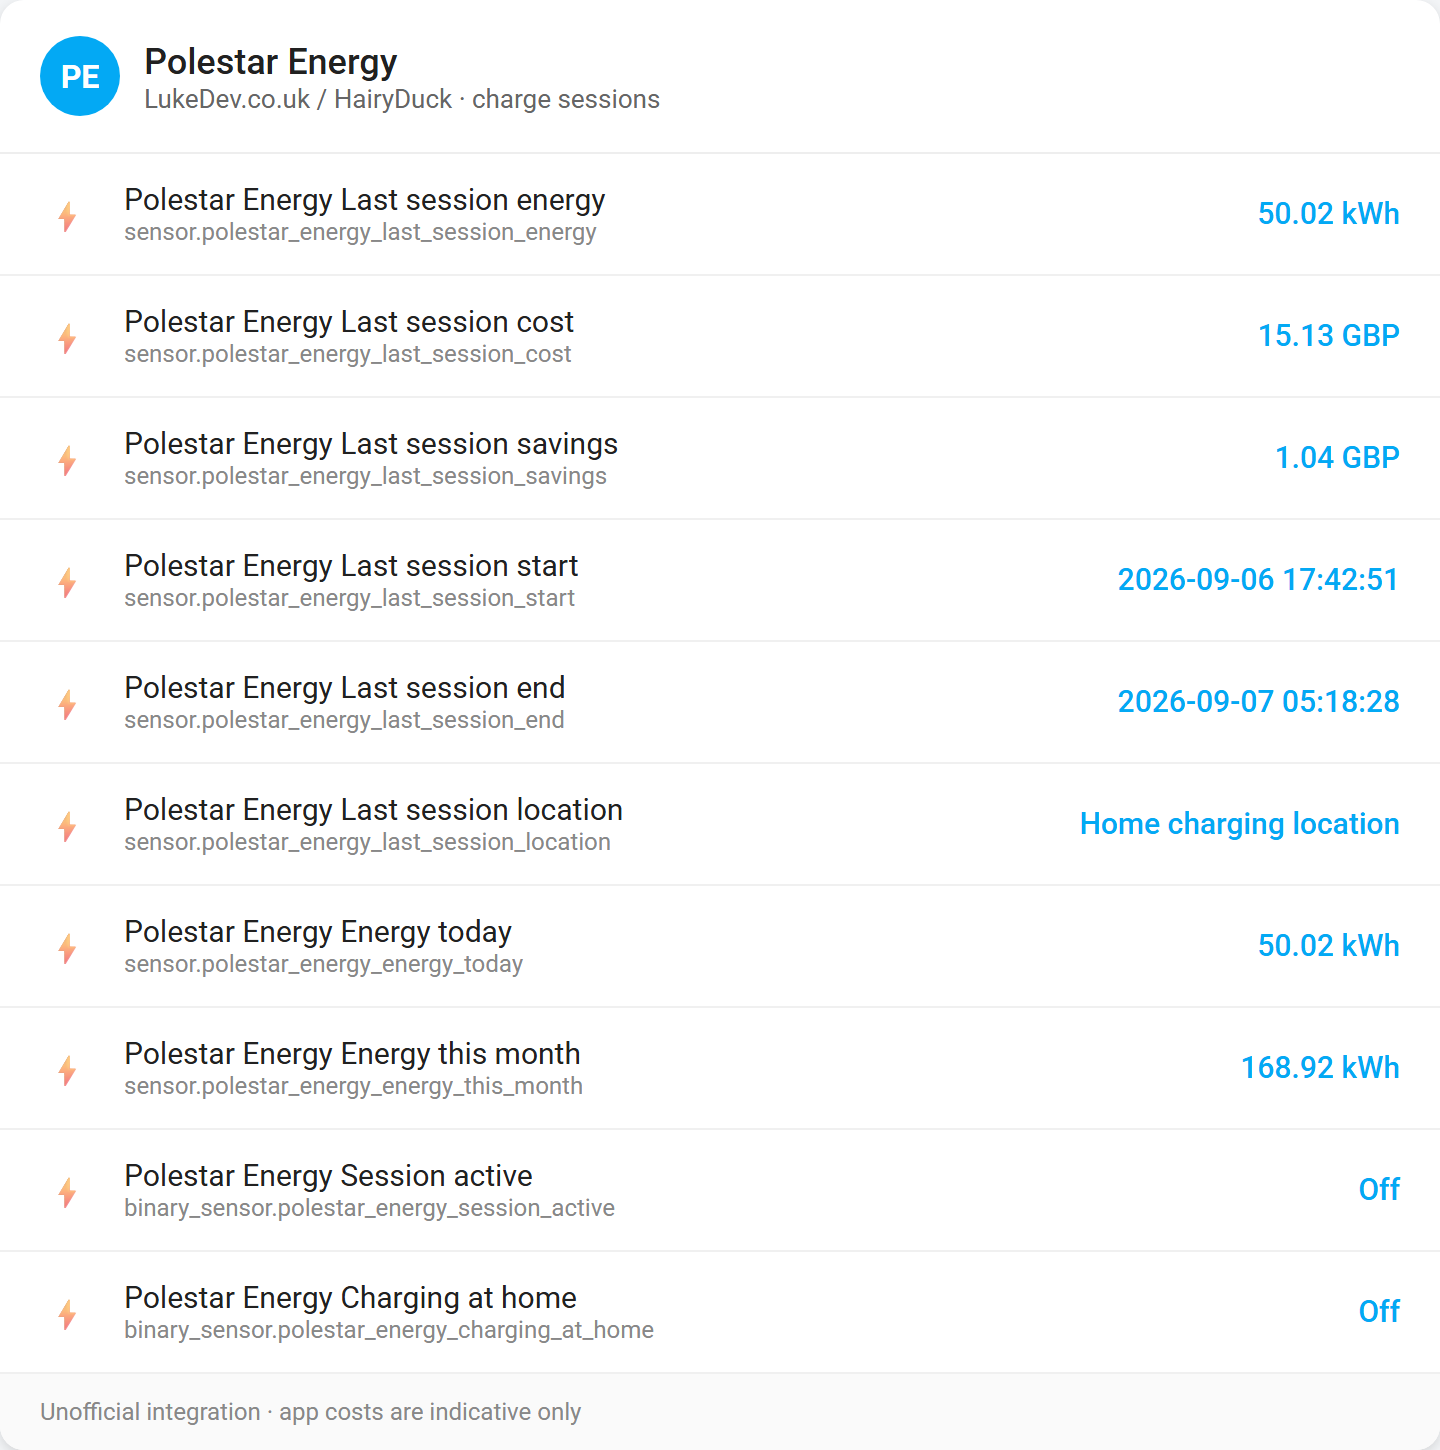
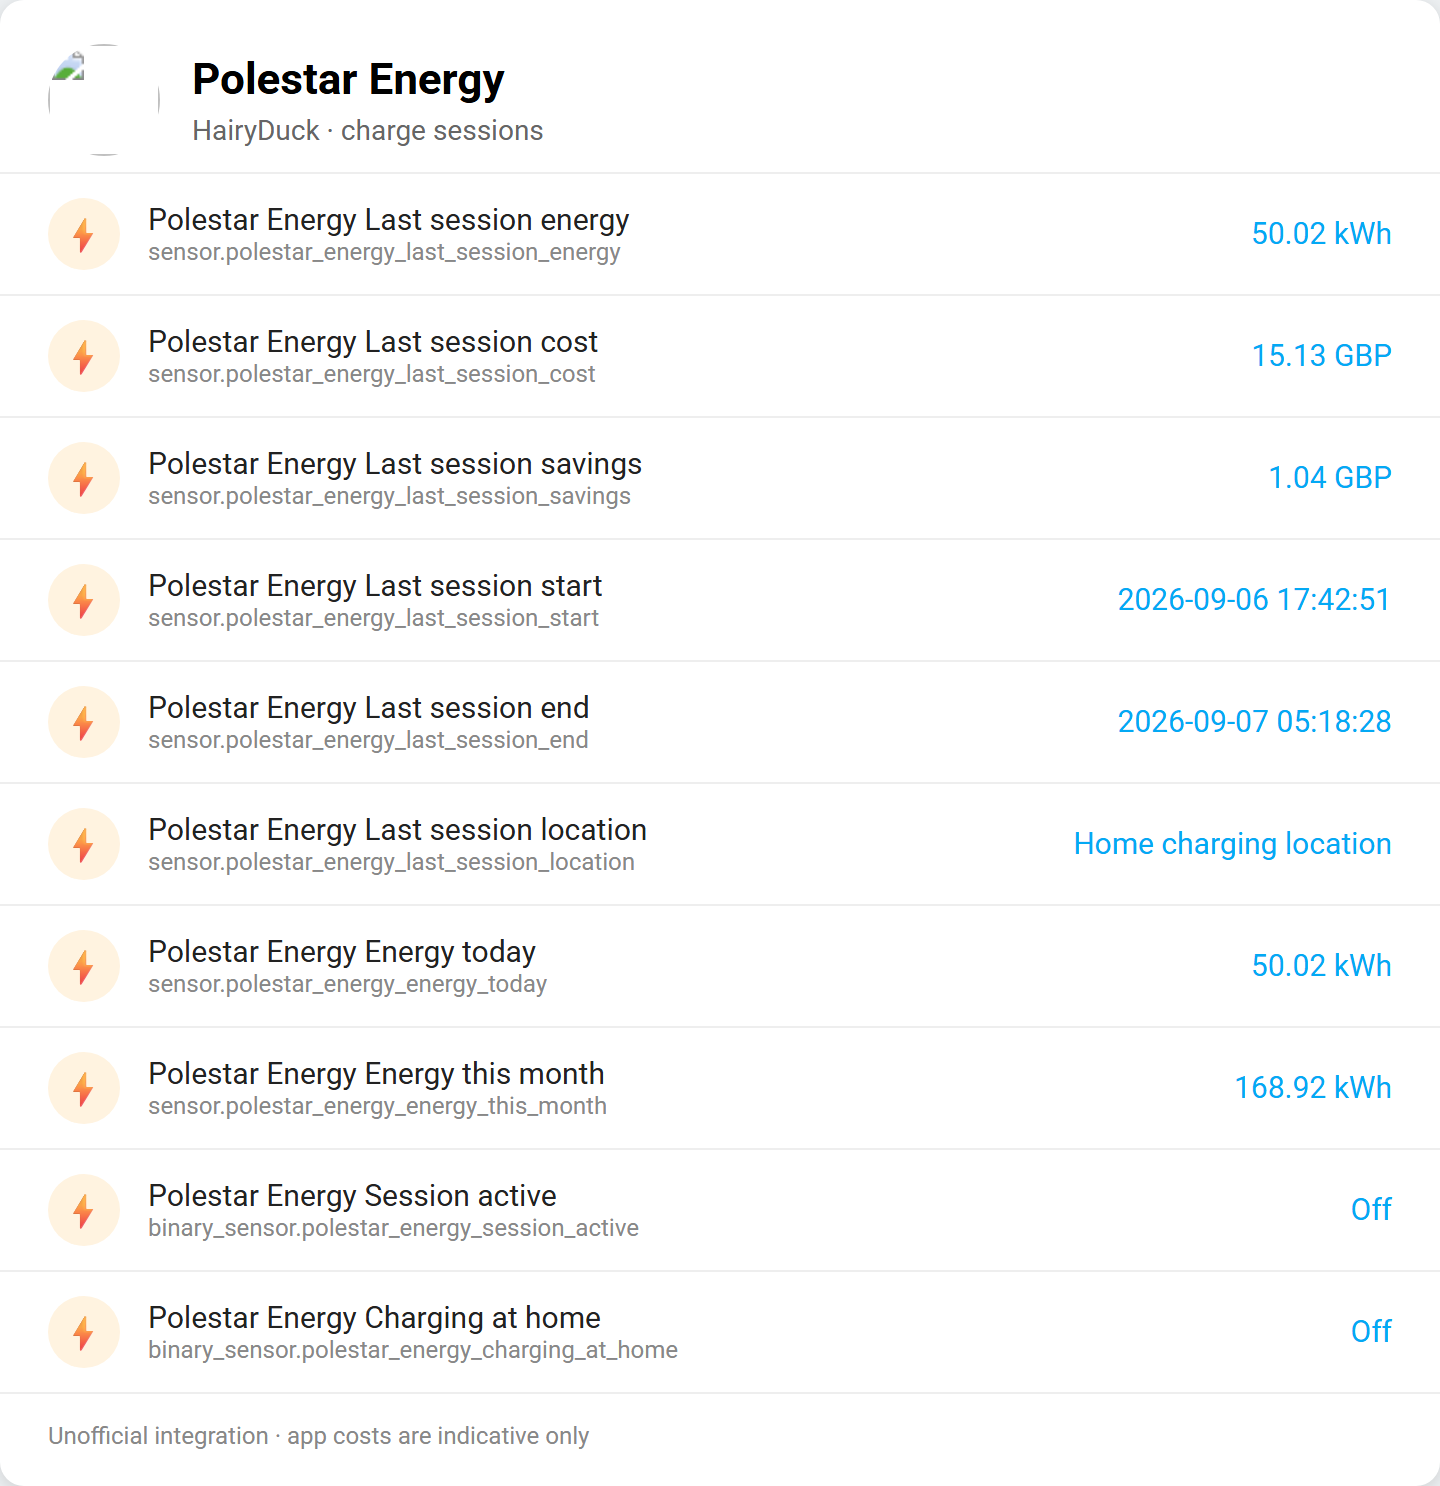
Drop scripts from the public repo and brand as HairyDuck only.
Remove LukeDev naming from docs, device info, and screenshots.

diff --git a/custom_components/polestar_energy/sensor.py b/custom_components/polestar_energy/sensor.py
@@ -154,7 +154,7 @@ class PolestarEnergySensor(CoordinatorEntity[PolestarEnergyCoordinator], SensorE
         self._attr_device_info = {
             "identifiers": {(DOMAIN, coordinator.entry.entry_id)},
             "name": coordinator.entry.title,
-            "manufacturer": "LukeDev",
+            "manufacturer": "HairyDuck",
             "model": "Polestar Energy",
         }
 

diff --git a/custom_components/polestar_energy/binary_sensor.py b/custom_components/polestar_energy/binary_sensor.py
@@ -70,7 +70,7 @@ class PolestarEnergyBinarySensor(
         self._attr_device_info = {
             "identifiers": {(DOMAIN, coordinator.entry.entry_id)},
             "name": coordinator.entry.title,
-            "manufacturer": "LukeDev",
+            "manufacturer": "HairyDuck",
             "model": "Polestar Energy",
         }
 

diff --git a/custom_components/polestar_energy/const.py b/custom_components/polestar_energy/const.py
@@ -22,7 +22,7 @@ AUTH_REDIRECT_URI = (
 
 API_KEY = "9cb19e6c885983102a4bc9e096acea8b"
 MOBILE_GATEWAY_BASE = "https://mobilegateway.jedlix.com/v1/api"
-CLIENT_NAME = "LukeDev-PolestarEnergy"
+CLIENT_NAME = "HairyDuck-PolestarEnergy"
 CLIENT_VERSION = "1.0.0"
 
 DEFAULT_SCAN_INTERVAL_SECONDS = 300

diff --git a/README.md b/README.md
@@ -2,7 +2,7 @@
 
 This application is not an official app affiliated with Polestar or Jedlix.
 
-A [LukeDev.co.uk](https://lukedev.co.uk/) / [HairyDuck](https://github.com/HairyDuck) Home Assistant integration for **Polestar Energy** charge sessions (energy used, session times, home vs away).
+A [HairyDuck](https://github.com/HairyDuck) Home Assistant integration for **Polestar Energy** charge sessions (energy used, session times, home vs away).
 
 This is **separate** from the car telemetry integration [pypolestar/polestar_api](https://github.com/pypolestar/polestar_api) (battery, location, odometer, and so on). Use that for the car. Use **this** for charge-session data from the Polestar Energy / Jedlix smart-charging app.
 
@@ -79,7 +79,7 @@ Clone or copy this repository and copy the folder `custom_components/polestar_en
 
 * Issues: https://github.com/HairyDuck/polestar-energy/issues
 * Contributions: see [CONTRIBUTING.md](CONTRIBUTING.md)
-* Author: [HairyDuck](https://github.com/HairyDuck) · [LukeDev.co.uk](https://lukedev.co.uk/)
+* Author: [HairyDuck](https://github.com/HairyDuck)
 
 ## License
 

diff --git a/CHANGELOG.md b/CHANGELOG.md
@@ -1,13 +1,18 @@
 # Changelog
 
+## 1.0.2 – 2026-09-07
+
+- Remove helper scripts from the public repo
+- Branding is HairyDuck only
+
 ## 1.0.1 – 2026-09-07
 
 - Use the Polestar Energy app orange icon for brand assets
-- Device manufacturer shown as LukeDev (unofficial; not Polestar / Jedlix)
+- Device manufacturer shown as HairyDuck (unofficial; not Polestar / Jedlix)
 
 ## 1.0.0 – 2026-09-07
 
-- Initial public release (LukeDev.co.uk / HairyDuck)
+- Initial public release (HairyDuck)
 - Auth0 PKCE login via Polestar ID email and password
 - Session history from Jedlix mobile gateway (`/sessions`, `/addresses`, `/vehicles`)
 - Sensors: last session energy/cost/savings/start/end/location, energy today/month

diff --git a/PUBLISH.md b/PUBLISH.md
@@ -16,7 +16,7 @@ For **custom-repository** install only, Actions are optional but still strongly 
 ```powershell
 cd polestar-energy
 gh auth login
-gh repo create HairyDuck/polestar-energy --public --source=. --remote=origin --push --description "Home Assistant integration for Polestar Energy charge sessions (LukeDev.co.uk / HairyDuck)"
+gh repo create HairyDuck/polestar-energy --public --source=. --remote=origin --push --description "Home Assistant integration for Polestar Energy charge sessions (HairyDuck). Unofficial."
 ```
 
 Or create `https://github.com/HairyDuck/polestar-energy` in the browser, then push `main`.

diff --git a/info.md b/info.md
@@ -2,7 +2,7 @@
 
 This is a custom component to get **Polestar Energy** charge-session information into [Home Assistant](https://home-assistant.io).
 
-Built by [LukeDev.co.uk](https://lukedev.co.uk/) / [HairyDuck](https://github.com/HairyDuck).
+Built by [HairyDuck](https://github.com/HairyDuck).
 
 Not affiliated with Polestar or Jedlix. Complementary to [pypolestar/polestar_api](https://github.com/pypolestar/polestar_api) (car data), not a replacement for it.
 

diff --git a/CONTRIBUTING.md b/CONTRIBUTING.md
@@ -1,6 +1,6 @@
 # Contributing
 
-Thanks for helping improve this LukeDev / HairyDuck Home Assistant integration.
+Thanks for helping improve this HairyDuck Home Assistant integration.
 
 ## Development layout
 
